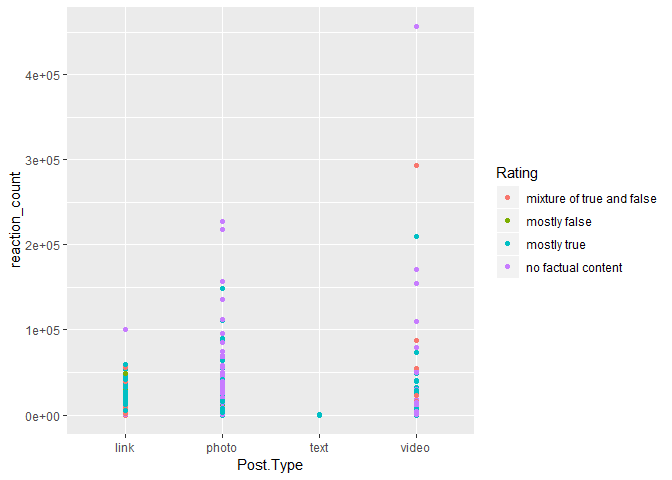
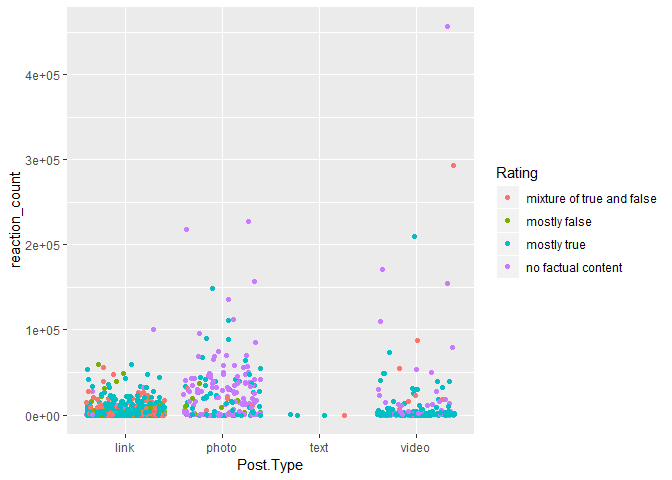
cleaning up1

diff --git a/facebook_factcheck.md b/facebook_factcheck.md
@@ -1,16 +1,9 @@
 facebook\_factcheck
 ================
 
-R Markdown
-----------
+need to write a proposal covering these questions: What is the problem you want to solve? The social media world is becoming more and more polarized. One of the early glimpses of this was the 2016 elections. There is a strong element of disinformation throughout social media. This project is based on research done by Buzzzfeed on Facebook leading up to the 2016 presidential elections .That data was acquired over seven week days (September 19 through 23rd and September 26th and 27th, 2016.) The research included
 
-This is an R Markdown document. Markdown is a simple formatting syntax for authoring HTML, PDF, and MS Word documents. For more details on using R Markdown see <http://rmarkdown.rstudio.com>.
-
-When you click the **Knit** button a document will be generated that includes both content as well as the output of any embedded R code chunks within the document. You can embed an R code chunk like this:
-
-need to write a proposal covering these questions: What is the problem you want to solve?
-
-Who is your client and why do they care about this problem? In other words, what will your client DO or DECIDE based on your analysis that they wouldn’t have otherwise?
+Who is your client and why do they care about this problem? In other words, what will your client DO or \`DECIDE based on your analysis that they wouldn’t have otherwise?
 
 What data are you going to use for this? How will you acquire this data?
 
@@ -131,11 +124,6 @@ table(fb$Rating)
     ##               mostly true        no factual content 
     ##                      1669                       264
 
-Including Plots
----------------
-
-You can also embed plots, for example:
-
 ``` r
 #Renameing features
 fb$account_id <- as.character(fb$account_id)
@@ -240,9 +228,19 @@ ggplot(fb, aes(x=Page,fill= Rating))+
 
 ``` r
 ggplot(fb,aes(x=Post.Type,y= reaction_count, col=Rating))+
-  geom_point()
+  geom_point(position = "jitter")
 ```
 
 ![](facebook_factcheck_files/figure-markdown_github/unnamed-chunk-3-2.png)
+
+``` r
+ggplot(data=fb)+
+  geom_point(mapping= aes(x=Post.Type, y= Total_count, position= "dodge"))+
+  facet_wrap( ~ Rating,nrow = 2)
+```
+
+    ## Warning: Ignoring unknown aesthetics: position
+
+![](facebook_factcheck_files/figure-markdown_github/unnamed-chunk-3-3.png)
 
 Note that the `echo = FALSE` parameter was added to the code chunk to prevent printing of the R code that generated the plot.
